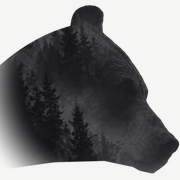
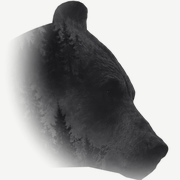
Сайт: прежний значок, только крупнее — без пустых полей
Claude-Session: https://claude.ai/code/session_01Uu83MB45nkJX1tXJZPePva

diff --git a/site/index.html b/site/index.html
@@ -7,9 +7,9 @@
 <meta name="description" content="Лана Фрейтаг — любовные романы. Новые главы на Литнете.">
 <meta name="theme-color" content="#fbfbfd" media="(prefers-color-scheme: light)">
 <meta name="theme-color" content="#0f0f13" media="(prefers-color-scheme: dark)">
-<link rel="icon" type="image/png" sizes="32x32" href="icon-32.png?10">
-<link rel="icon" type="image/png" sizes="512x512" href="icon-512.png?10">
-<link rel="apple-touch-icon" href="icon-bear.png?10">
+<link rel="icon" type="image/png" sizes="32x32" href="icon-32.png?11">
+<link rel="icon" type="image/png" sizes="512x512" href="icon-512.png?11">
+<link rel="apple-touch-icon" href="icon-bear.png?11">
 <link rel="preconnect" href="https://fonts.googleapis.com">
 <link rel="preconnect" href="https://fonts.gstatic.com" crossorigin>
 <link rel="stylesheet" href="https://fonts.googleapis.com/css2?family=Cormorant:ital,wght@1,400;1,500&family=Golos+Text:wght@400;500&family=Oranienbaum&display=swap">

diff --git a/site/admin/index.html b/site/admin/index.html
@@ -5,9 +5,9 @@
 <meta name="viewport" content="width=device-width, initial-scale=1, viewport-fit=cover">
 <meta name="robots" content="noindex">
 <title>Сайт · админка</title>
-<link rel="icon" type="image/png" sizes="32x32" href="../icon-32.png?10">
-<link rel="icon" type="image/png" sizes="512x512" href="../icon-512.png?10">
-<link rel="apple-touch-icon" href="../icon-bear.png?10">
+<link rel="icon" type="image/png" sizes="32x32" href="../icon-32.png?11">
+<link rel="icon" type="image/png" sizes="512x512" href="../icon-512.png?11">
+<link rel="apple-touch-icon" href="../icon-bear.png?11">
 <link rel="preconnect" href="https://fonts.googleapis.com">
 <link rel="preconnect" href="https://fonts.gstatic.com" crossorigin>
 <link rel="stylesheet" href="https://fonts.googleapis.com/css2?family=Cormorant:ital,wght@1,400;1,500&family=Golos+Text:wght@400;500&family=Oranienbaum&display=swap">

diff --git a/AGENTS.md b/AGENTS.md
@@ -37,7 +37,7 @@
   последний призыв; на телефоне кнопка «Читать» внизу появляется, когда главная ушла из виду.
   Пустые разделы не показываются. Цитаты, отрывки, отзывы — только настоящие (из книг/от читателей), не выдумывать.
   Первый экран главной — без обложек книг: слева заголовок и кнопка, справа **медведь в тумане над лесом — кадр с её обложки
-  «Звериная тропа для двоих»** (`site/hero-bear.jpg`, без лица героини и названия; значок вкладки — как у крупных сайтов: прозрачный фон, крупно (на весь значок) настоящая голова медведя с той же обложки (глаз, нос, шерсть; затылок уходит в туман), с чётким силуэтом (контур профиля с обложки, ухо низкое и широкое, полукругом (высокое круглое на ножке она назвала неприличным, «палку» — тоже), челюсть точно по обложке: низ челюсти от подбородка идёт назад и ВВЕРХ (линия через x 905→848 при y 679→650 в координатах обложки), шеи нет; голова приподнята совсем чуть-чуть (на 8°); ухо — сглаженный контур уха с обложки, округлое, умеренной высоты, чуть отклонено назад; голова на весь значок — от уха до носа во всю ширину и высоту, затылок уходит за левый край (толстую шею и второй подбородок она назвала «жирный»), затылок и низ растворяются мягко по кругу от морды (прямоугольные края растушёвки — нет), фактура внутри едва заметная, голова чуть приподнята — морда вперёд, внутри фактура обложки; затылок и шея тают к краю) — размытая голова во вкладке «сливается»; белый ореол на розовой вкладке некрасив; плитку под значком она не хочет; для iPhone (`icon-bear.png`) — на светлом фоне; чёрный силуэт (и обведённый, и нарисованный) она отвергла, мелкую голову в круге — тоже (`site/icon-32.png`, `icon-bear.png` 180, `icon-512.png`; рисованного кодом медведя она отвергла))
+  «Звериная тропа для двоих»** (`site/hero-bear.jpg`, без лица героини и названия; значок вкладки — как у крупных сайтов: прозрачный фон, крупно (на весь значок) настоящая голова медведя с той же обложки (глаз, нос, шерсть; затылок уходит в туман), с чётким силуэтом (контур профиля с обложки, ухо низкое и широкое, полукругом (высокое круглое на ножке она назвала неприличным, «палку» — тоже), челюсть точно по обложке: низ челюсти от подбородка идёт назад и ВВЕРХ (линия через x 905→848 при y 679→650 в координатах обложки), шеи нет; голова приподнята совсем чуть-чуть (на 8°); ухо — сглаженный контур уха с обложки, округлое, умеренной высоты, чуть отклонено назад; рисунок значка (вариант «ухо с обложки, голова на 8° выше») она утвердила — НЕ менять; «крупнее» = тот же рисунок без пустых полей вокруг (обрезка по краю медведя), а не новый кадр (толстую шею и второй подбородок она назвала «жирный»), затылок и низ растворяются мягко по кругу от морды (прямоугольные края растушёвки — нет), фактура внутри едва заметная, голова чуть приподнята — морда вперёд, внутри фактура обложки; затылок и шея тают к краю) — размытая голова во вкладке «сливается»; белый ореол на розовой вкладке некрасив; плитку под значком она не хочет; для iPhone (`icon-bear.png`) — на светлом фоне; чёрный силуэт (и обведённый, и нарисованный) она отвергла, мелкую голову в круге — тоже (`site/icon-32.png`, `icon-bear.png` 180, `icon-512.png`; рисованного кодом медведя она отвергла))
   или другая картинка `photo`. Картинка 1300×1000: только голова медведя (ели ВНУТРИ силуэта — как на обложке, можно) из обложки
   в полном разрешении, мягко выходит из лёгкого тумана; дымка обложки переведена в белый (смешивание multiply с фоном).
   Текст и медведь — одна композиция строго по центру экрана (сетка 540px + 500px, медведь заходит под текст на 48px, текст сдвинут вправо до 48px — у медведя справа туман, так визуальный центр совпадает с центром экрана); картинка — в той же сетке, не absolute. У `.hero-in` нет z-index — иначе multiply не смешивается с фоном и виден белый прямоугольник.
